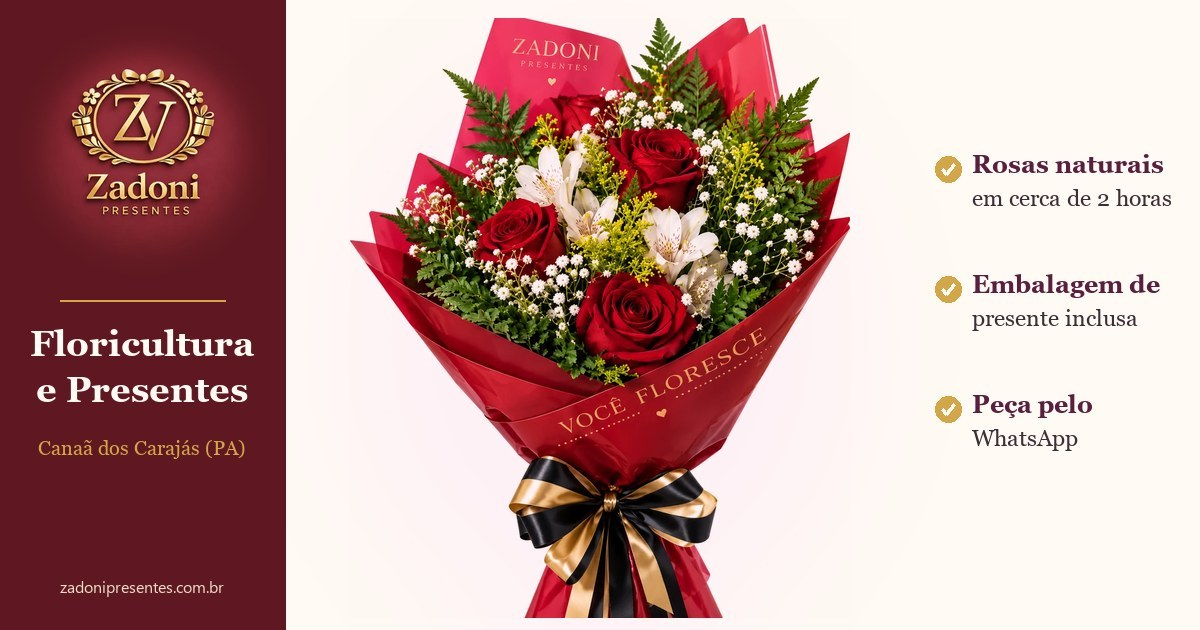
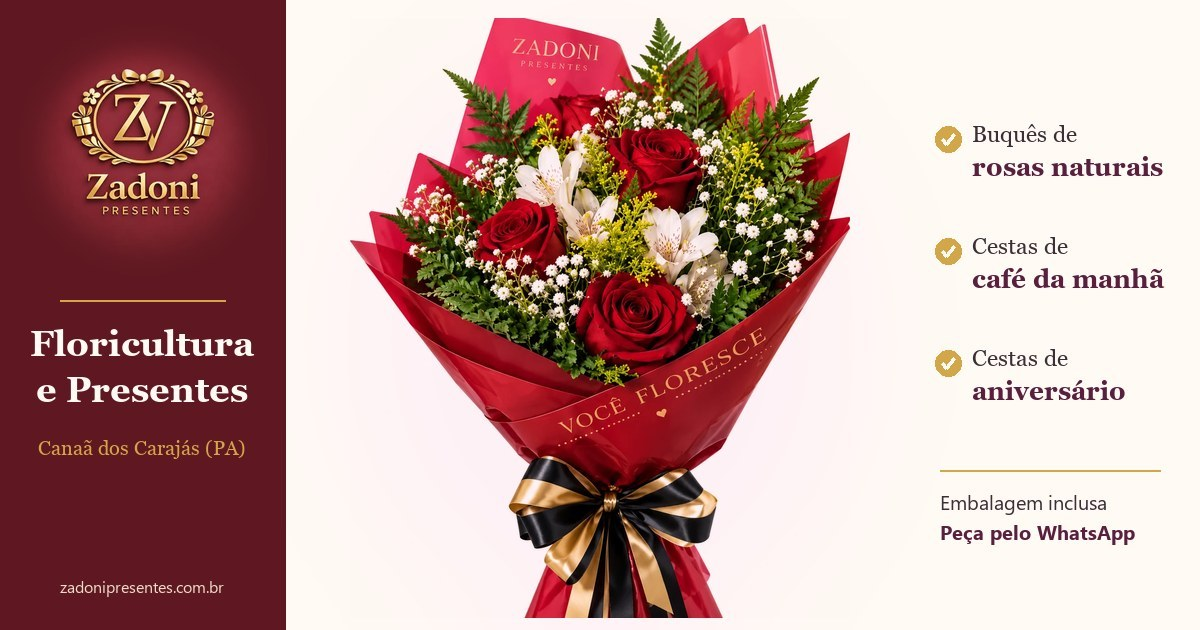
Home: capa e descrição de compartilhamento com cestas de café e aniversário
Coluna da direita: buquês de rosas naturais, cestas de café da manhã e cestas
de aniversário, mais "Embalagem inclusa · Peça pelo WhatsApp". Mesmo arquivo,
?v=20261123b. Title, meta description, H1 e canonical inalterados.

diff --git a/index.html b/index.html
@@ -21,16 +21,16 @@
 
     <!-- Open Graph -->
     <meta property="og:title" content="Floricultura e Presentes em Canaã dos Carajás | Zadoni">
-    <meta property="og:description" content="Floricultura em Canaã dos Carajás: buquês de rosas naturais em cerca de 2 horas, cestas e presentes com embalagem inclusa. Peça pelo WhatsApp.">
+    <meta property="og:description" content="Floricultura em Canaã dos Carajás: buquês de rosas naturais, cestas de café da manhã e de aniversário com embalagem inclusa. Peça pelo WhatsApp.">
     <meta property="og:site_name" content="Zadoni Presentes">
     <meta property="og:type" content="website">
     <meta property="og:locale" content="pt_BR">
     <meta property="og:url" content="https://zadonipresentes.com.br/">
-    <meta property="og:image" content="https://zadonipresentes.com.br/assets/optimized/products/og-home-presentes-1200x630.jpg?v=20261123"><meta property="og:image:type" content="image/jpeg"><meta property="og:image:width" content="1200"><meta property="og:image:height" content="630"><meta property="og:image:alt" content="Buquê de rosas vermelhas naturais da Zadoni, floricultura e presentes em Canaã dos Carajás">
+    <meta property="og:image" content="https://zadonipresentes.com.br/assets/optimized/products/og-home-presentes-1200x630.jpg?v=20261123b"><meta property="og:image:type" content="image/jpeg"><meta property="og:image:width" content="1200"><meta property="og:image:height" content="630"><meta property="og:image:alt" content="Buquê de rosas vermelhas naturais da Zadoni, floricultura e presentes em Canaã dos Carajás">
     <meta name="twitter:card" content="summary_large_image">
     <meta name="twitter:title" content="Floricultura e Presentes em Canaã dos Carajás | Zadoni">
-    <meta name="twitter:description" content="Floricultura em Canaã dos Carajás: buquês de rosas naturais em cerca de 2 horas, cestas e presentes com embalagem inclusa. Peça pelo WhatsApp.">
-    <meta name="twitter:image" content="https://zadonipresentes.com.br/assets/optimized/products/og-home-presentes-1200x630.jpg?v=20261123"><meta name="twitter:image:alt" content="Buquê de rosas vermelhas naturais da Zadoni, floricultura e presentes em Canaã dos Carajás">
+    <meta name="twitter:description" content="Floricultura em Canaã dos Carajás: buquês de rosas naturais, cestas de café da manhã e de aniversário com embalagem inclusa. Peça pelo WhatsApp.">
+    <meta name="twitter:image" content="https://zadonipresentes.com.br/assets/optimized/products/og-home-presentes-1200x630.jpg?v=20261123b"><meta name="twitter:image:alt" content="Buquê de rosas vermelhas naturais da Zadoni, floricultura e presentes em Canaã dos Carajás">
     <link rel="canonical" href="https://zadonipresentes.com.br/">
 
     <title>Floricultura e Presentes em Canaã dos Carajás | Zadoni</title>

diff --git a/CHANGELOG-SEO.md b/CHANGELOG-SEO.md
@@ -437,3 +437,4 @@ Pendência do dono: o Perfil do Google mostra a Cesta Romântica com Rosas, Ursi
 | Data | Item | Página | Hipótese | Métrica | Avaliar em |
 |---|---|---|---|---|---|
 | 23/11/2026 | Capa de compartilhamento (og:image) trocada no mesmo arquivo `og-home-presentes-1200x630.jpg` (antes: colagem de 4 fotos; agora: buquê de rosas naturais Zadoni no centro, logo, "Floricultura e Presentes", Canaã dos Carajás (PA) e 3 frases oficiais). Tag com `?v=20261123` para o WhatsApp e o Facebook buscarem a capa nova; `og:image:alt` e `twitter:image:alt` novos. `og:description` e `twitter:description` novas, sem bairro. Title, meta description, H1, canonical e caminho da imagem inalterados | / | Prévia do link com marca e produto principal aumenta cliques em links compartilhados no WhatsApp e no Instagram | Sessões com origem WhatsApp/Instagram na inicial (GA4) e conversas iniciadas pelo link | 10/12/2026 |
+| 23/11/2026 | Capa v2 e descrição de compartilhamento da inicial citam também cestas de café da manhã e de aniversário (os produtos que mais dão lucro, segundo o dono); `?v=20261123b`. Title, meta description e H1 inalterados | / | Quem recebe o link vê as três linhas de maior venda e lucro | Conversas sobre cestas de café e aniversário iniciadas pelo link da inicial | 10/12/2026 |
